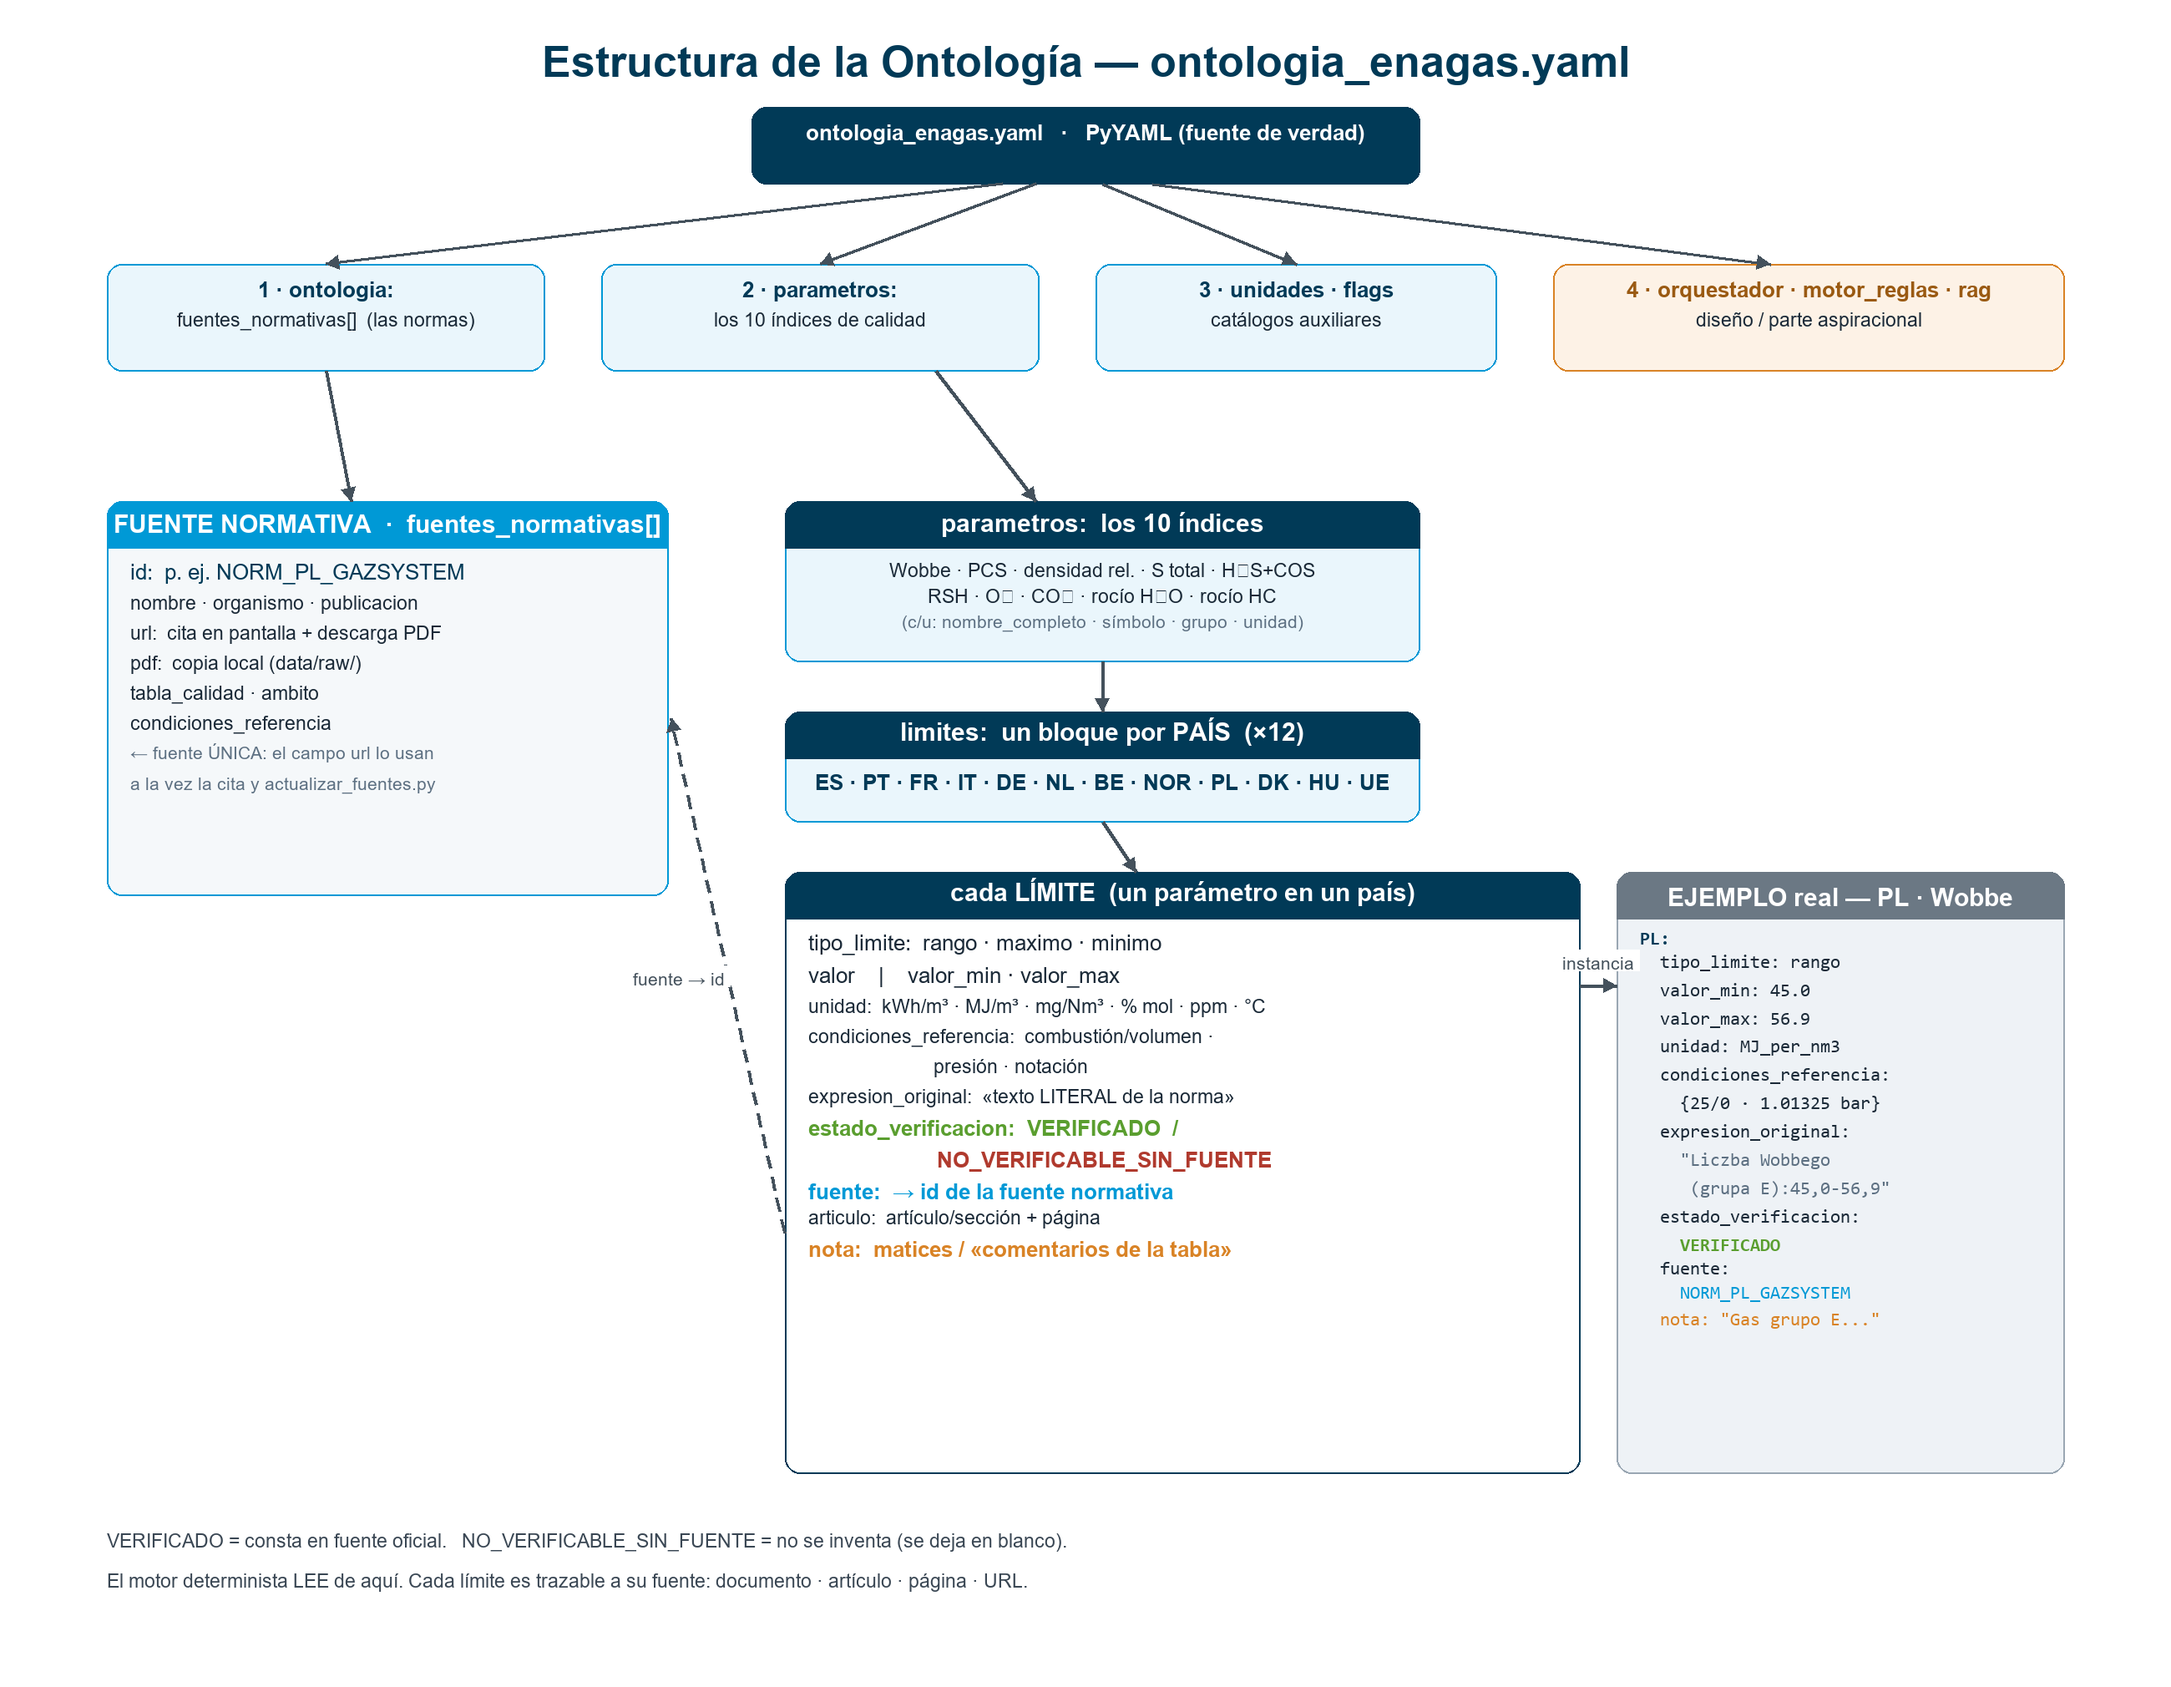
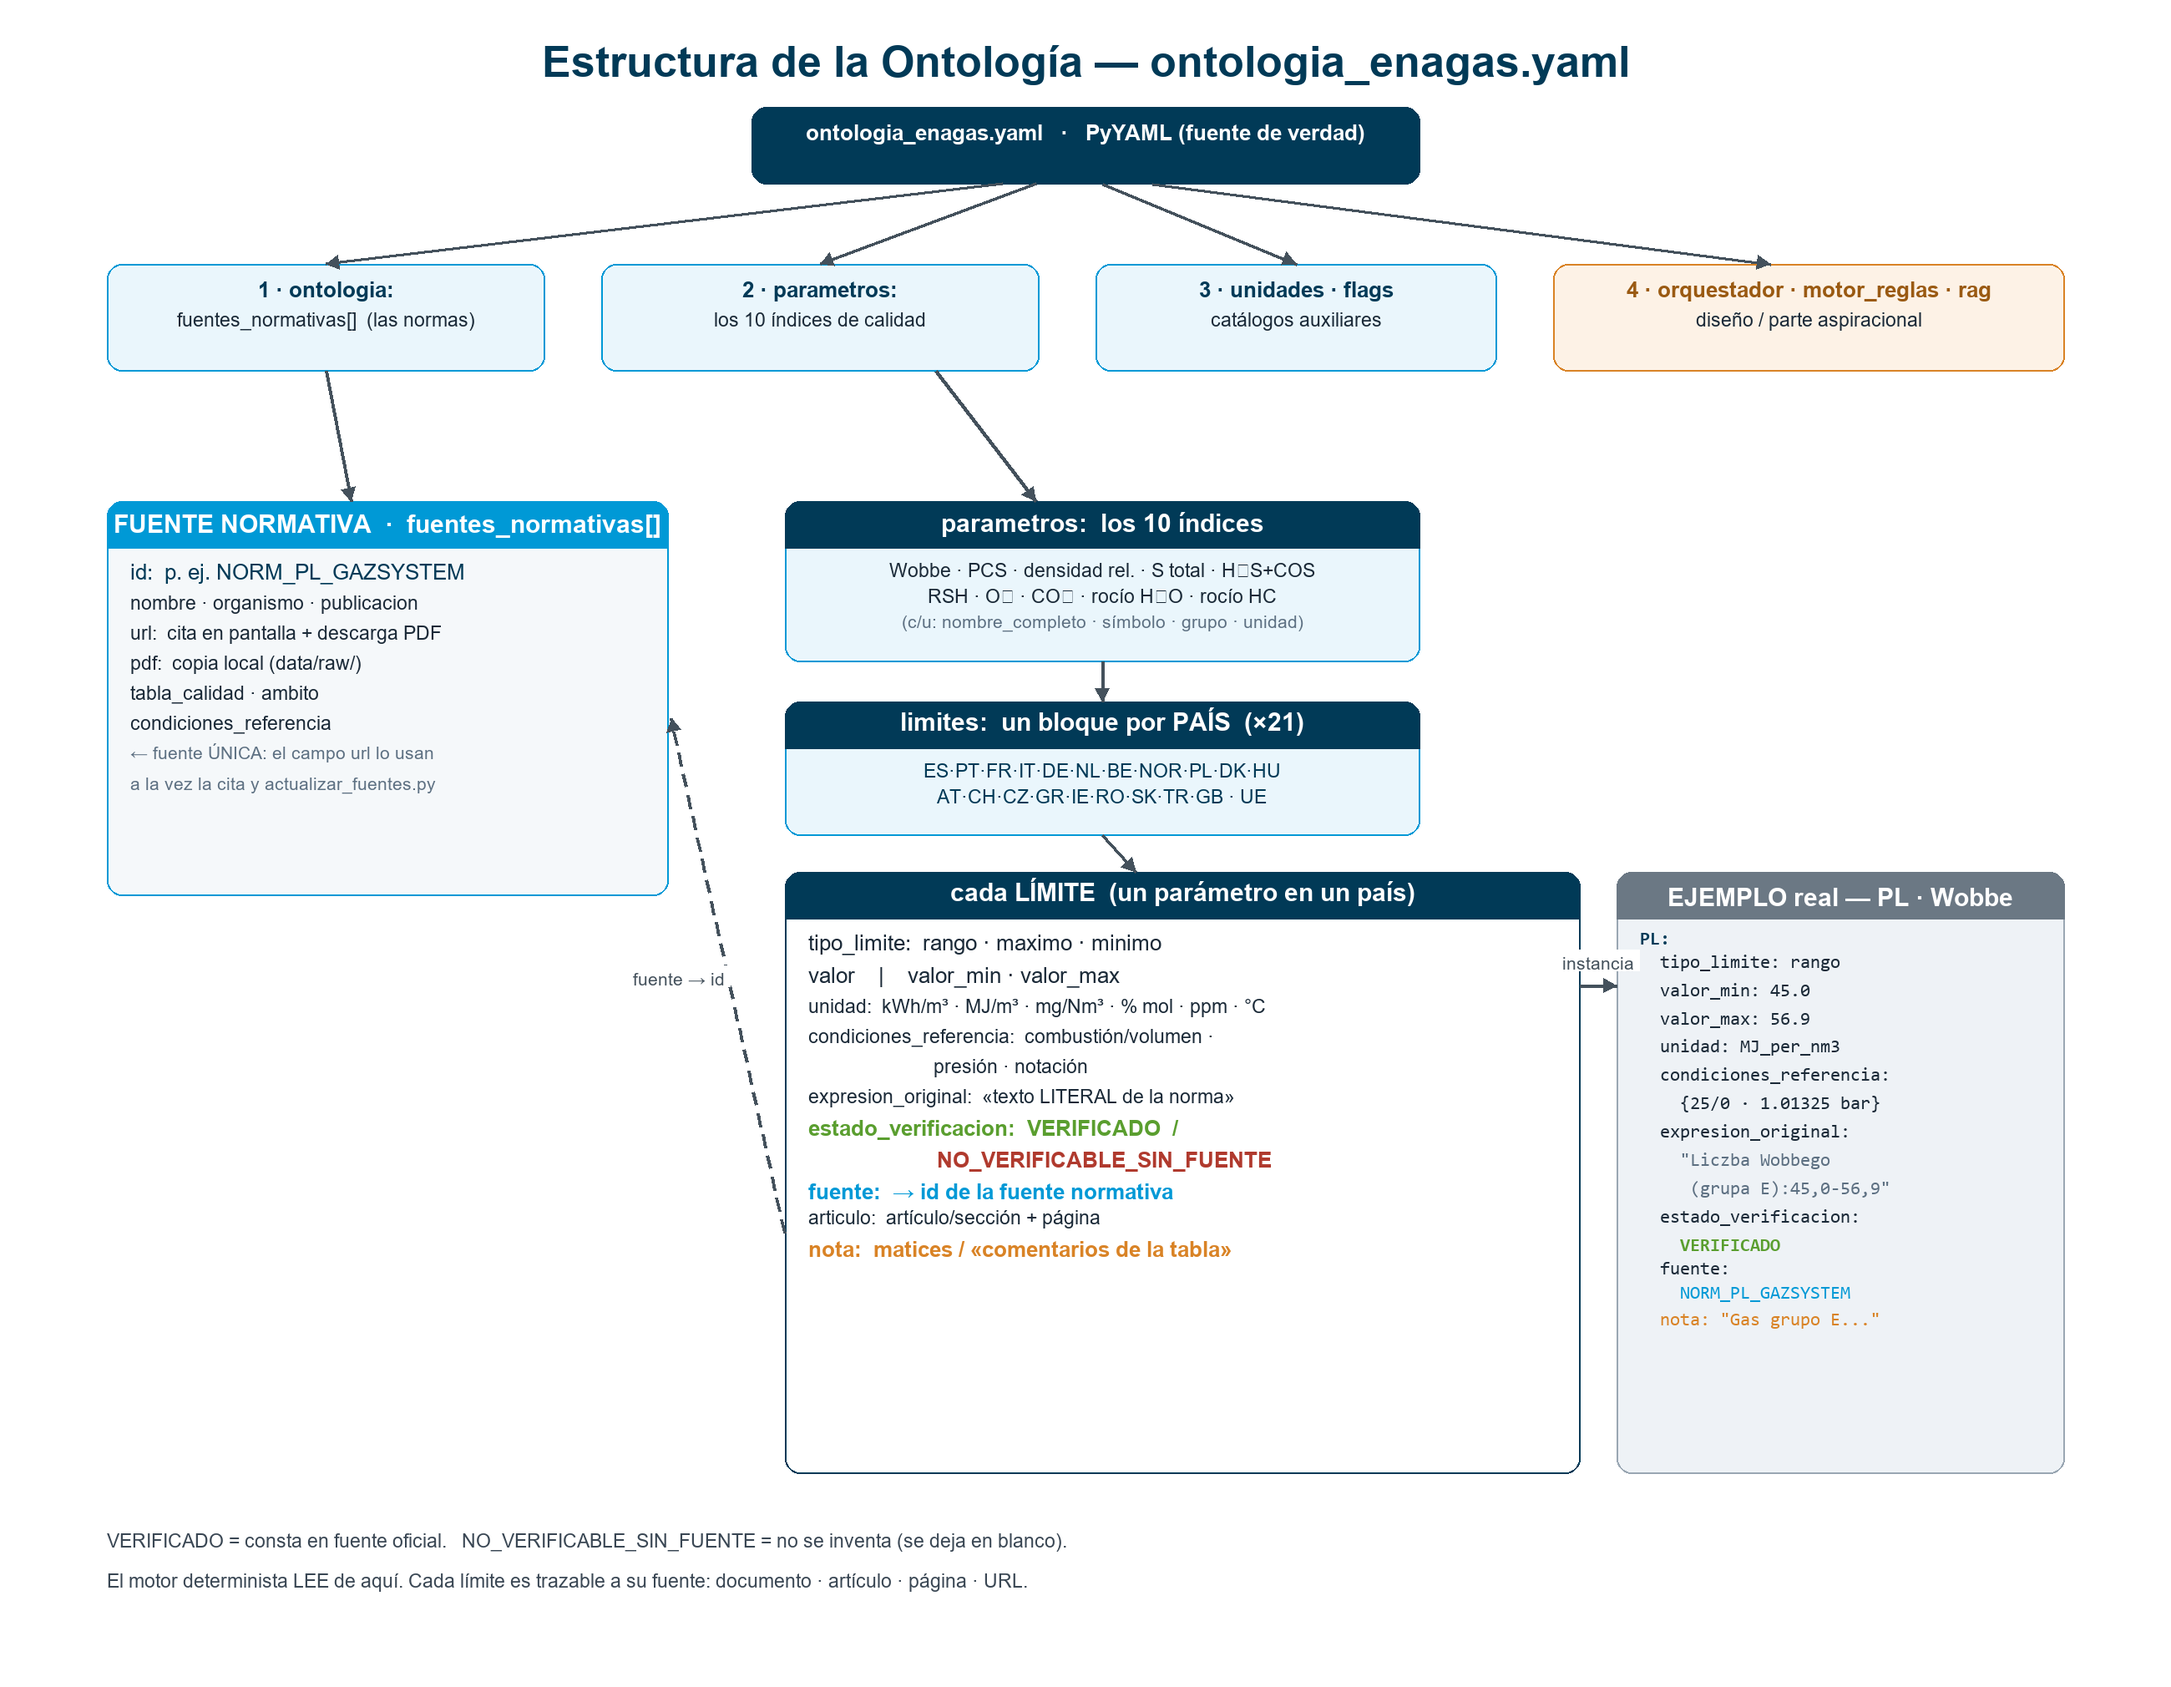
Docs: reflejar 21 jurisdicciones (anadir los 9 nuevos paises)
- Arquitectura (MD + PDF): 21 jurisdicciones; tabla ISO 13443 ampliada
  (25/0, 15/15, fila nueva 25/20 de Eslovaquia via Anexo B) + nota de kcal/m3.
- Diagramas (arquitectura + ontologia) regenerados a 21 paises.

Changed region(s): [[0.3738, 0.4054, 0.6542, 0.499]]

diff --git a/docs/generar_diagrama_ontologia.py b/docs/generar_diagrama_ontologia.py
@@ -67,10 +67,11 @@ BOXES = [
                ("RSH · O₂ · CO₂ · rocío H₂O · rocío HC", "small", TINTA),
                ("(c/u: nombre_completo · símbolo · grupo · unidad)", "tiny", "#5d7082")], align="center"),
 
-    dict(x=470, y=426, w=380, h=66, fill=AZUL_BG, stroke=CIAN,
-         header="limites:  un bloque por PAÍS  (×12)",
+    dict(x=470, y=420, w=380, h=80, fill=AZUL_BG, stroke=CIAN,
+         header="limites:  un bloque por PAÍS  (×21)",
          hfill=AZUL, hcolor="#ffffff",
-         body=[("ES · PT · FR · IT · DE · NL · BE · NOR · PL · DK · HU · UE", "bodybold", AZUL)], align="center"),
+         body=[("ES·PT·FR·IT·DE·NL·BE·NOR·PL·DK·HU", "small", AZUL),
+               ("AT·CH·CZ·GR·IE·RO·SK·TR·GB · UE", "small", AZUL)], align="center"),
 
     dict(x=470, y=522, w=476, h=360, fill="#ffffff", stroke=AZUL,
          header="cada LÍMITE  (un parámetro en un país)",
@@ -115,8 +116,8 @@ ARROWS = [
     dict(x1=690, y1=110, x2=1060, y2=158, label="", anc="lm"),
     dict(x1=195, y1=222, x2=210, y2=300, label="", anc="lm"),
     dict(x1=560, y1=222, x2=620, y2=300, label="", anc="lm"),
-    dict(x1=660, y1=396, x2=660, y2=426, label="", anc="lm"),
-    dict(x1=660, y1=492, x2=680, y2=522, label="", anc="lm"),
+    dict(x1=660, y1=396, x2=660, y2=420, label="", anc="lm"),
+    dict(x1=660, y1=500, x2=680, y2=522, label="", anc="lm"),
     dict(x1=946, y1=590, x2=968, y2=590, label="instancia", ldx=0, ldy=-12, anc="cb"),
     # cross-link: el campo "fuente" del limite referencia un id de fuentes_normativas
     dict(x1=470, y1=738, x2=402, y2=430, label="fuente → id", ldx=-2, ldy=0, anc="rm", dashed=True),

diff --git a/docs/generar_diagrama_arquitectura.py b/docs/generar_diagrama_arquitectura.py
@@ -83,7 +83,7 @@ BOXES = [
          header="5 · ONTOLOGÍA (YAML)  —  FUENTE DE VERDAD",
          hfill=VERDE, hcolor="#ffffff",
          body=[("ontologia_enagas.yaml", "bodybold", AZUL),
-               ("10 parámetros × 12 países + cita + estado_verificación", "small", TINTA)], align="center"),
+               ("10 parámetros × 21 países + cita + estado_verificación", "small", TINTA)], align="center"),
 
     dict(x=700, y=668, w=420, h=108, fill=NARAN_BG, stroke=NARANJA,
          header="6 · RAG  —  agente_pdf.py + SQLite",

diff --git a/docs/Arquitectura_Comparador_Gas.md b/docs/Arquitectura_Comparador_Gas.md
@@ -76,7 +76,7 @@ Es la **fuente primaria de verdad**: la extracción verificada de los PDF oficia
 ### Cobertura actual
 
 - **10 parámetros:** Índice de Wobbe, PCS, densidad relativa, azufre total, H₂S+COS, mercaptanos (RSH), O₂, CO₂, punto de rocío del agua, punto de rocío de hidrocarburos.
-- **Jurisdicciones (12):** España (base), Portugal, Francia, Italia, Alemania, Países Bajos, Bélgica, Noruega, Polonia, Dinamarca, Hungría y la UE (EN 16726).
+- **Jurisdicciones (21):** España (base), Portugal, Francia, Italia, Alemania, Países Bajos, Bélgica, Noruega, Polonia, Dinamarca, Hungría, Austria, Suiza, Chequia, Grecia, Irlanda, Rumanía, Eslovaquia, Turquía, Reino Unido y la UE (EN 16726).
 
 > El campo `url` de cada fuente es **fuente única**: lo usan a la vez la cita en pantalla (`fuente_oficial.url_de`) y el descargador de PDFs (`actualizar_fuentes.py`).
 
@@ -97,9 +97,12 @@ Para comparar PCS e Índice de Wobbe entre países con distinta temperatura de c
 
 | Conversión a España (0/0) | PCS | Wobbe | PCI |
 |---|---|---|---|
-| **25/0 → 0/0** (Portugal, Alemania, Países Bajos, Bélgica, Noruega, Polonia, Dinamarca, Hungría) | 1,0026 | 1,0026 | 1,0003 |
-| **15/15 → 0/0** (Italia, UE) | 1,0570 | 1,0569 | 1,0555 |
+| **25/0 → 0/0** (Portugal, Alemania, Países Bajos, Bélgica, Noruega, Polonia, Dinamarca, Hungría, Austria, Suiza, Grecia) | 1,0026 | 1,0026 | 1,0003 |
+| **15/15 → 0/0** (Italia, UE, Chequia, Irlanda, Rumanía, Turquía, Reino Unido) | 1,0570 | 1,0569 | 1,0555 |
+| **25/20 → 0/0** (Eslovaquia — par no tabulado) | ≈1,076 (Anexo B) | ≈1,076 | |
 | 0/0 → 0/0 (España, Francia) | identidad (×1) | | |
+
+> **Unidades de energía:** además de kWh/m³ y MJ/m³, el conversor admite **kcal/m³** (Turquía y Rumanía expresan el Wobbe/PCS en kcal; 1 kWh ≈ 859,85 kcal). El par **25/20** de Eslovaquia (volumen a 20 °C) no está en la Tabla A.1, así que se resuelve con las **ecuaciones del Anexo B** de la ISO 13443.
 
 Las concentraciones másicas (mg/m³) referidas a un volumen distinto de 0 °C (p. ej. Italia a 15 °C) se normalizan con el factor de gas ideal `(273,15+T)/273,15`. El % mol, lo adimensional y los puntos de rocío no dependen de la temperatura del volumen.
 
